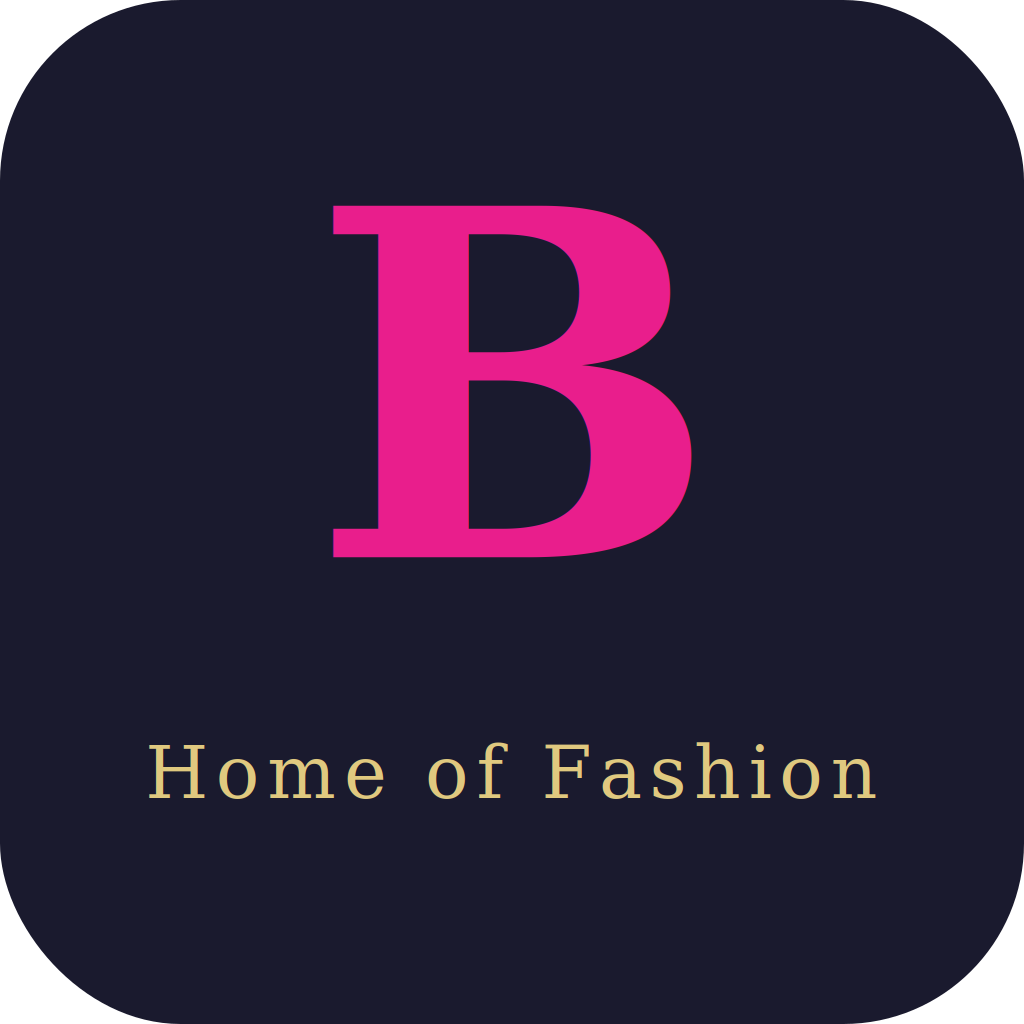
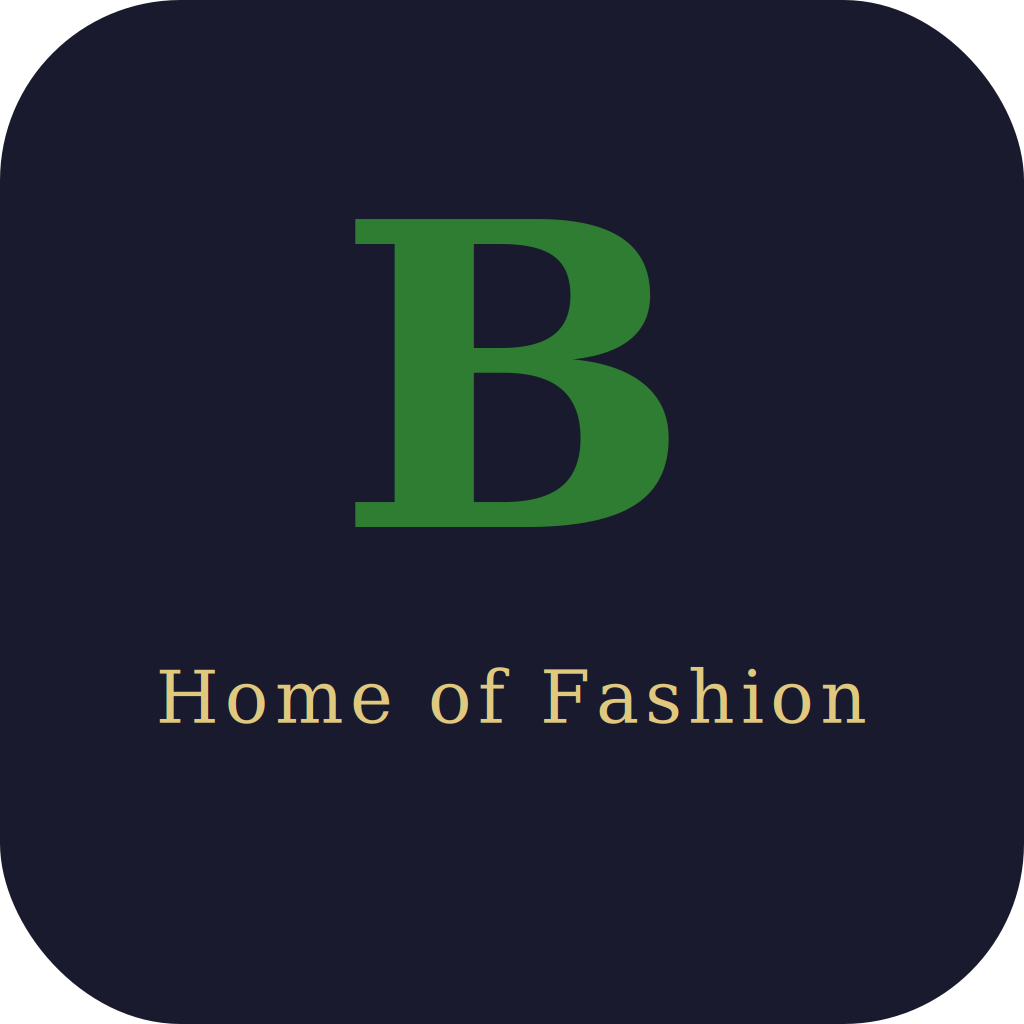
Fix chat input bar visibility on all phones

diff --git a/screens/ChatScreen.js b/screens/ChatScreen.js
@@ -143,7 +143,7 @@ export default function ChatScreen({ route, navigation }) {
   };
 
   return (
-    <KeyboardAvoidingView style={styles.container} behavior={Platform.OS === 'ios' ? 'padding' : undefined}>
+    <KeyboardAvoidingView style={styles.container} behavior={Platform.OS === 'ios' ? 'padding' : 'height'} keyboardVerticalOffset={Platform.OS === 'android' ? 25 : 0}>
       <View style={styles.header}>
         <TouchableOpacity onPress={() => navigation.goBack()}>
           <Text style={styles.back}>← Back</Text>
@@ -202,7 +202,7 @@ const styles = StyleSheet.create({
   theirText: { color: '#fff' },
   time: { fontSize: 10, color: 'rgba(0,0,0,0.4)', marginTop: 4, alignSelf: 'flex-end' },
   empty: { color: '#aaa', textAlign: 'center', marginTop: 60 },
-  inputRow: { flexDirection: 'row', padding: 12, gap: 8, backgroundColor: '#2a2a3e', alignItems: 'center' },
+  inputRow: { flexDirection: 'row', padding: 12, gap: 8, backgroundColor: '#2a2a3e', alignItems: 'center', paddingBottom: 24 },
   photoBtn: { width: 42, height: 42, justifyContent: 'center', alignItems: 'center' },
   photoIcon: { fontSize: 24 },
   input: { flex: 1, backgroundColor: '#1a1a2e', color: '#fff', padding: 12, borderRadius: 20, fontSize: 15, maxHeight: 100 },